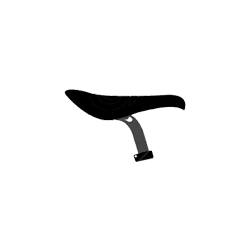
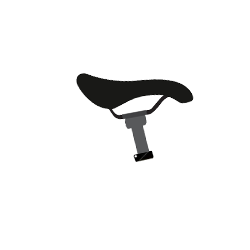
alap nyereg sport nyereg verseny nyereg #8 #21

Changed region(s): [[0.252, 0.28, 0.784, 0.616]]

diff --git a/configurator.html b/configurator.html
@@ -61,9 +61,9 @@
         <p class="mb-0">nyereg</p>
         <select class="dropdown" id="dropdownMenu">
           <option value="40">Nem kérek</option>
-          <option value="41">Option 1</option>
-          <option value="42">Option 2</option>
-          <option value="43">Option 3</option>
+          <option value="41">Alap nyereg</option>
+          <option value="42">Sport nyereg</option>
+          <option value="43">Verseny nyereg</option>
         </select>
       </div>
     </div>

diff --git a/configData.js b/configData.js
@@ -26,9 +26,8 @@ const configData = [
 
         'nemkérek;0;nemkérek;0;images/blank.png;40',
         'nyereg1;100;nyereg;0;images/nyereg_alap.png;41',
-        'nyereg2;100;nyereg;0;images/kerek1.jpg;42',
-        'nyereg3;100;nyereg;0;images/kerek1.jpg;43',
-        'nyereg4;100;nyereg;0;images/kerek1.jpg;44',
+        'nyereg3;100;nyereg;0;images/nyereg_sport.png;42',
+        'nyereg2;100;nyereg;0;images/nyereg_race.png;43',
 ];
 
 export default configData
